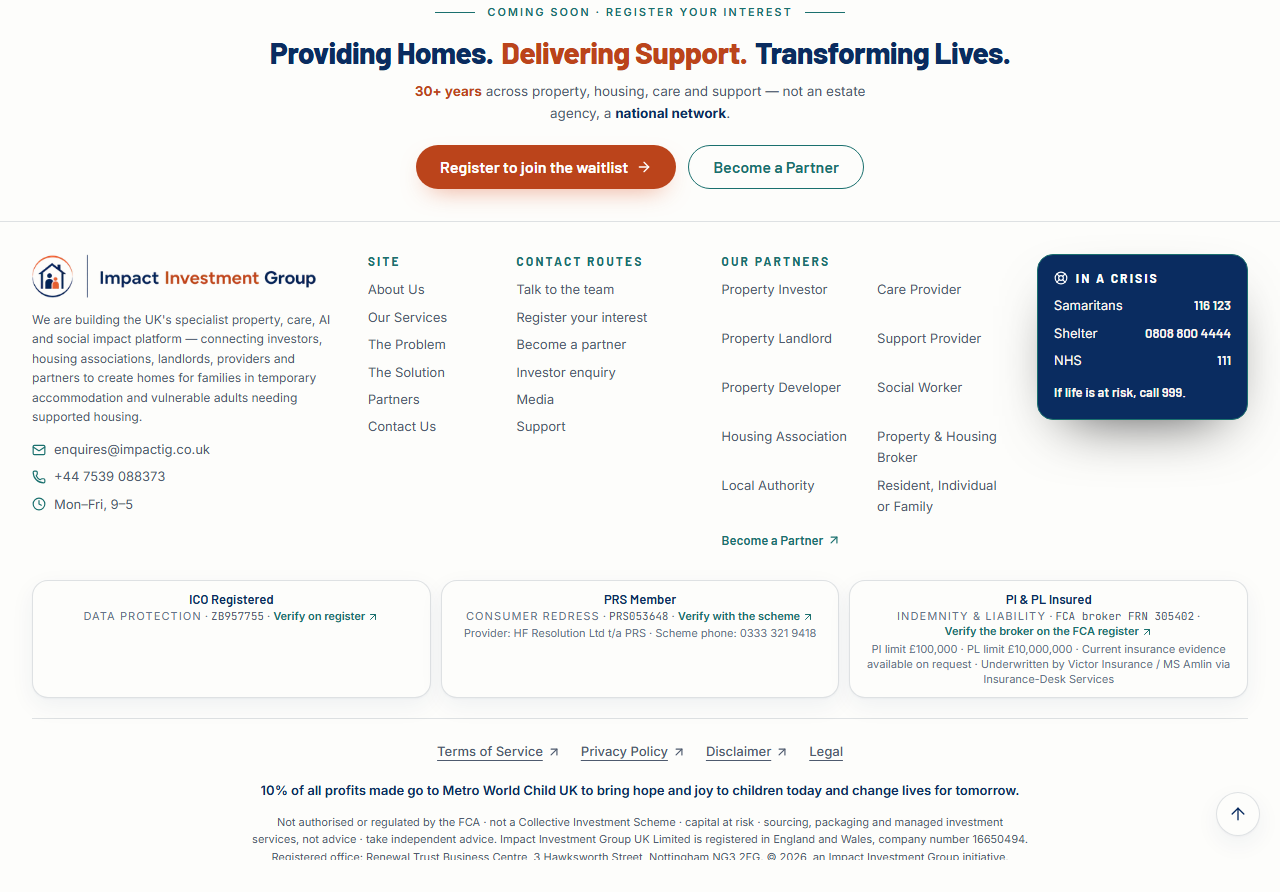
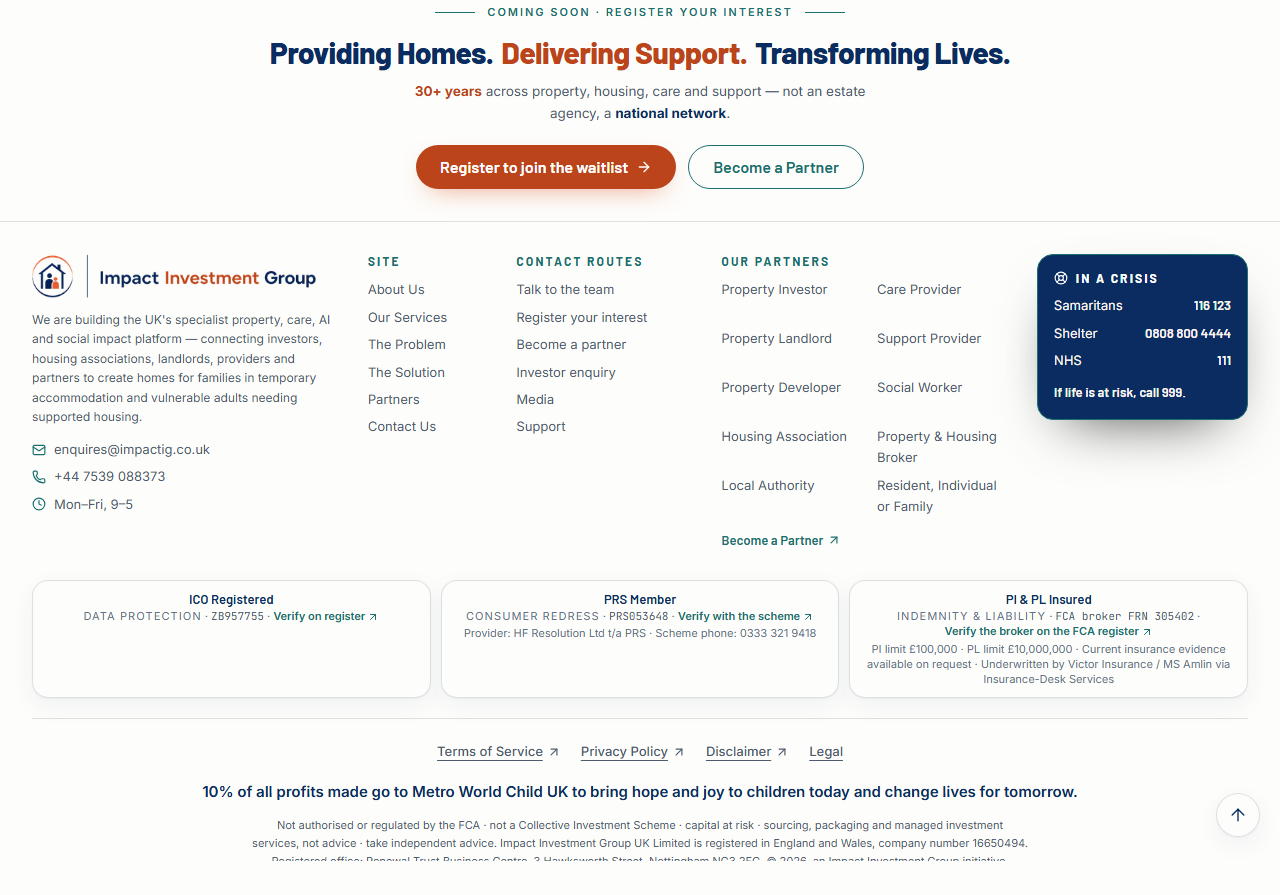
feat(wave576): the footer pledge at 15px at every width, R576-1
Callum, 12 Oct 2026: the site footer line is 15px, the house minimum, not the
brief's 13px. text-[13px] max-lg:text-[15px] becomes text-[15px]; the sentence,
font-semibold, leading-relaxed, text-ink, max-w-[120ch] and the centring are
unchanged, and nothing else in the footer is touched.

The guard read the pledge's size and asserted nothing about it: it now pins
15px at 1280 and at 390 (red on the 16fd5a1 build at the four 1280 readings,
gate-576-pin-red.txt). 493's five 1280 footer befores are re-shot at this head
by its own --mode before, after the strict red showed every differing pixel at
or below the pledge's top (0 px above it on all five).

diff --git a/src/components/site-footer.tsx b/src/components/site-footer.tsx
@@ -505,8 +505,10 @@ export function SiteFooter() {
 
           {/* Wave 576 (10 Oct 2026): the charity pledge sits with the company's
               legal identity, a step above the 11px notice, on every route
-              including the register pages. ink on the footer ground. */}
-          <p className="mx-auto mt-3 max-w-[120ch] text-balance text-center text-[13px] max-lg:text-[15px] font-semibold leading-relaxed text-ink">
+              including the register pages. ink on the footer ground. 15px at
+              every width by R576-1 (Callum, 12 Oct 2026): the house minimum,
+              not the brief's 13px. */}
+          <p className="mx-auto mt-3 max-w-[120ch] text-balance text-center text-[15px] font-semibold leading-relaxed text-ink">
             {charityPledge}
           </p>
 

diff --git a/docs/wave576/px15/probe.py b/docs/wave576/px15/probe.py
@@ -1,0 +1,100 @@
+"""Wave 576, the 15 px pass (21 Oct 2026, R576-1): the footer pledge, read.
+
+    python docs/wave576/px15/probe.py --label control   # on dist/client at 16fd5a1
+    python docs/wave576/px15/probe.py --label head --shots docs/screenshots/wave576/px15
+
+On `/` and `/register/investor` at 1280 and 390: the pledge paragraph's computed
+size, weight, line height, its rendered line count (its height over its line
+height), its box, the footer's height, and whether the pledge's box overlaps any
+other text-bearing element in the footer. With `--shots`, the footer is cut from
+a full-page shot at its document box, with the sticky header hidden (not
+removed), and named for the route and the width. Reads only; asserts nothing.
+"""
+
+from __future__ import annotations
+
+import argparse
+import importlib.util
+import json
+from pathlib import Path
+
+from PIL import Image
+from playwright.sync_api import sync_playwright
+
+ROOT = Path(__file__).resolve().parents[3]
+spec = importlib.util.spec_from_file_location("wave490", ROOT / "scripts" / "wave490-phone.py")
+W490 = importlib.util.module_from_spec(spec)
+spec.loader.exec_module(W490)
+
+PROFILES = [("1280", 1280, 900, False), ("390", 390, 844, True)]
+ROUTES = [("/", "home"), ("/register/investor", "register-investor")]
+STILL = "*, *::before, *::after { animation: none !important; transition: none !important; }"
+
+READ = r"""
+() => {
+  const text = (el) => el.textContent.replace(/\s+/g, ' ').trim();
+  const foot = document.querySelector('footer');
+  const p = [...foot.querySelectorAll('p')].find((x) => text(x).startsWith('10% of all profits'));
+  const s = getComputedStyle(p);
+  const r = p.getBoundingClientRect();
+  const lh = parseFloat(s.lineHeight);
+  const clash = [...foot.querySelectorAll('p, li, a, span, h2, h3, h4')]
+    .filter((el) => el !== p && !p.contains(el) && !el.contains(p) && text(el))
+    .filter((el) => {
+      const b = el.getBoundingClientRect();
+      return b.width > 0 && b.height > 0 && b.left < r.right && b.right > r.left && b.top < r.bottom && b.bottom > r.top;
+    }).map((el) => text(el).slice(0, 40));
+  return {
+    size: s.fontSize, weight: s.fontWeight, lineHeight: s.lineHeight, colour: s.color,
+    lines: Math.round(r.height / lh), box: [Math.round(r.left), Math.round(r.width), Math.round(r.height * 100) / 100],
+    footer: Math.round(foot.getBoundingClientRect().height * 100) / 100, clash,
+  };
+}
+"""
+
+
+def main() -> int:
+    ap = argparse.ArgumentParser()
+    ap.add_argument("--build", default=str(ROOT / "dist" / "client"))
+    ap.add_argument("--label", required=True)
+    ap.add_argument("--shots", default="")
+    args = ap.parse_args()
+    port = W490.serve(Path(args.build))
+    out = {}
+    with sync_playwright() as pw:
+        browser = pw.chromium.launch()
+        for label, width, height, touch in PROFILES:
+            for path, slug in ROUTES:
+                ctx = browser.new_context(viewport={"width": width, "height": height}, device_scale_factor=1,
+                                          is_mobile=touch, has_touch=touch, reduced_motion="reduce")
+                page = ctx.new_page()
+                page.goto(f"http://127.0.0.1:{port}{path}", wait_until="networkidle")
+                W490.settle(page)
+                page.add_style_tag(content=STILL)
+                W490.to_top(page)
+                reading = page.evaluate(READ)
+                out[f"{path} @ {label}"] = reading
+                print(f"{args.label:<8} {path:<20} @ {label:<5} {json.dumps(reading)}")
+                if args.shots:
+                    folder = ROOT / args.shots
+                    folder.mkdir(parents=True, exist_ok=True)
+                    # A full-page shot cropped to the footer's document box: an
+                    # element capture of the home footer at 1280 (894px in a 900px
+                    # viewport) landed 220px high on the first run of this probe.
+                    page.evaluate("document.querySelector('header').style.visibility = 'hidden'")
+                    box = page.evaluate(
+                        "(() => { const r = document.querySelector('footer').getBoundingClientRect();"
+                        " return [r.left + scrollX, r.top + scrollY, r.width, r.height]; })()")
+                    whole = folder / f"_whole-{slug}-{label}.png"
+                    page.screenshot(path=str(whole), full_page=True, animations="disabled", caret="hide")
+                    page.evaluate("document.querySelector('header').style.visibility = ''")
+                    x, y, w, h = (round(v) for v in box)
+                    Image.open(whole).crop((x, y, x + w, y + h)).save(folder / f"footer-{slug}-{label}.png", optimize=True)
+                    whole.unlink()
+                ctx.close()
+        browser.close()
+    return 0
+
+
+if __name__ == "__main__":
+    raise SystemExit(main())

diff --git a/docs/wave576/px15/gate-493-rows.py b/docs/wave576/px15/gate-493-rows.py
@@ -1,0 +1,58 @@
+"""Wave 576, the 15 px pass (21 Oct 2026): which rows of 493's five 1280 footers differ.
+
+    python docs/wave576/px15/gate-493-rows.py
+
+Pairs each committed before shot (wave 576's head, 13px pledge) with the after
+shot 493 just wrote on this head (15px pledge), and reads the pledge's top and
+bottom inside the footer from the head build, so the differing rows can be
+told apart: everything from the pledge's top down may move, nothing above it.
+"""
+
+import importlib.util
+from pathlib import Path
+
+import numpy as np
+from PIL import Image
+from playwright.sync_api import sync_playwright
+
+ROOT = Path(__file__).resolve().parents[3]
+SHOTS = ROOT / "docs" / "screenshots" / "wave493"
+spec = importlib.util.spec_from_file_location("w490", ROOT / "scripts" / "wave490-phone.py")
+W = importlib.util.module_from_spec(spec)
+spec.loader.exec_module(W)
+STILL = "*, *::before, *::after { animation: none !important; transition: none !important; caret-color: transparent !important; }"
+ROUTES = {"home": "/", "platform": "/platform", "about": "/about", "partners": "/partners", "register": "/register"}
+PLEDGE = r"""() => {
+  const f = document.querySelector('footer').getBoundingClientRect();
+  const p = [...document.querySelectorAll('footer p')].find((x) => x.textContent.trim().startsWith('10% of all profits'));
+  const r = p.getBoundingClientRect();
+  return [+(r.top - f.top).toFixed(2), +(r.bottom - f.top).toFixed(2), +f.height.toFixed(2)];
+}"""
+
+where = {}
+with sync_playwright() as p:
+    b = p.chromium.launch()
+    port = W.serve(ROOT / "dist" / "client")
+    for r, path in ROUTES.items():
+        ctx = b.new_context(viewport={"width": 1280, "height": 900}, device_scale_factor=1)
+        pg = ctx.new_page()
+        pg.goto(f"http://127.0.0.1:{port}{path}", wait_until="networkidle")
+        W.settle(pg)
+        pg.add_style_tag(content=STILL)
+        where[r] = pg.evaluate(PLEDGE)
+        ctx.close()
+    b.close()
+
+for r in ROUTES:
+    a = np.asarray(Image.open(SHOTS / "before" / f"{r}-1280-footer.png").convert("RGBA")).astype(int)
+    c = np.asarray(Image.open(SHOTS / "after" / f"{r}-1280-footer.png").convert("RGBA")).astype(int)
+    rows = min(len(a), len(c))
+    d = np.abs(a[:rows] - c[:rows]).max(2) > 0
+    ys = np.where(d.any(1))[0]
+    top, bottom, height = where[r]
+    above = int(d[: int(top)].sum())
+    print(
+        f"{r}: before {a.shape[0]}px, after {c.shape[0]}px; differ {int(d.sum())} px, first differing row "
+        f"{int(ys[0]) if len(ys) else None}; pledge in the head footer at rows {top} to {bottom} of {height}; "
+        f"px differing above the pledge's top: {above}"
+    )

diff --git a/scripts/wave576-charity.py b/scripts/wave576-charity.py
@@ -27,7 +27,8 @@ WHAT THIS READS AND ASSERTS, in `--mode after` (the default):
      and twice in all in `index.html` and `about/index.html` (footer plus the
      page's own placement).
   4. THE HYDRATED PAGE at 1280 and 390, on `/`, `/about`, `/register` and
-     `/register/investor`: one footer `<p>` equals the constant; on `/` the
+     `/register/investor`: one footer `<p>` equals the constant, at 15px at
+     both widths (R576-1, Callum, 12 Oct 2026; pinned 21 Oct 2026); on `/` the
      band reads it in Barlow 700, on the computed `--color-page-alt`, below the
      first viewport; on `/about` the summary's third line equals it.
   5. EVERY OTHER BAND of `main` on `/` and `/about`, at both widths, is cut out
@@ -92,6 +93,8 @@ SENTENCE = (
     "children today and change lives for tomorrow."
 )
 NAME = "Metro World Child"
+# R576-1, Callum, 12 Oct 2026: the footer line is 15px at 1280 and at 390.
+PLEDGE_SIZE = "15px"
 CHARITY = "src/content/charity.ts"
 IMPORTERS = {
     "src/components/site-footer.tsx",
@@ -501,6 +504,12 @@ def run(build: Path, mode: str, arm: str | None) -> int:
                     failures.append(f"live {where}: {foot['footers']} footer(s), expected 1.")
                 if [x["text"] for x in foot["pledge"]] != [SENTENCE]:
                     failures.append(f"live {where}: the footer's pledge paragraphs read {plain([x['text'] for x in foot['pledge']])}.")
+                # R576-1 (Callum, 12 Oct 2026; pinned 21 Oct 2026): the footer pledge
+                # is 15px at every width, the house minimum, not the brief's 13px.
+                # Until then this read the size and asserted nothing about it.
+                for x in foot["pledge"]:
+                    if x["size"] != PLEDGE_SIZE:
+                        failures.append(f"live {where}: the footer's pledge is {x['size']}, expected {PLEDGE_SIZE} (R576-1).")
 
                 if slug == "home":
                     band = page.evaluate(HOME_READ, SENTENCE)
@@ -568,7 +577,8 @@ def run(build: Path, mode: str, arm: str | None) -> int:
     for where, reading in record["live"].items():
         if "footer" in reading:
             f = reading["footer"]
-            print(f"  {where:<26} footers {f['footers']}  pledge paragraphs {len(f['pledge'])}")
+            print(f"  {where:<26} footers {f['footers']}  pledge paragraphs {len(f['pledge'])}  "
+                  f"size {[x['size'] for x in f['pledge']]}")
         if "band" in reading:
             for b in reading["band"]:
                 print(f"  {'':<26} band {b['family'].split(',')[0]} {b['weight']} {b['size']}, ground {b['band']}, top {b['top']:.0f}px of a {b['viewport']}px viewport")

diff --git a/scripts/wave493-logo.py b/scripts/wave493-logo.py
@@ -494,6 +494,13 @@ def pair(before_json: Path, after_json: Path, failures: list[str]) -> None:
     Wave 576, 10 Oct 2026: the five 1280 footer shots (home, platform, about,
     partners, register) were re-shot at that wave's head, which added the
     charity pledge line to every footer. The five headers are still 493's.
+
+    Wave 576's 15 px pass, 21 Oct 2026 (R576-1, Callum, 12 Oct 2026): the same
+    five 1280 footer shots were re-shot again, at that pass's head, by
+    `--mode before --profiles 1280 --scratch`, because the pledge went from
+    13px to 15px at 1280 and each footer grew 3px. Before the re-base every
+    differing pixel was at or below the pledge's top (0 px above it on all
+    five, docs/wave576/px15/gate-493-rows.txt). The five headers are still 493's.
     """
     before = json.loads(before_json.read_text(encoding="utf-8"))["readings"]
     after = json.loads(after_json.read_text(encoding="utf-8"))["readings"]
